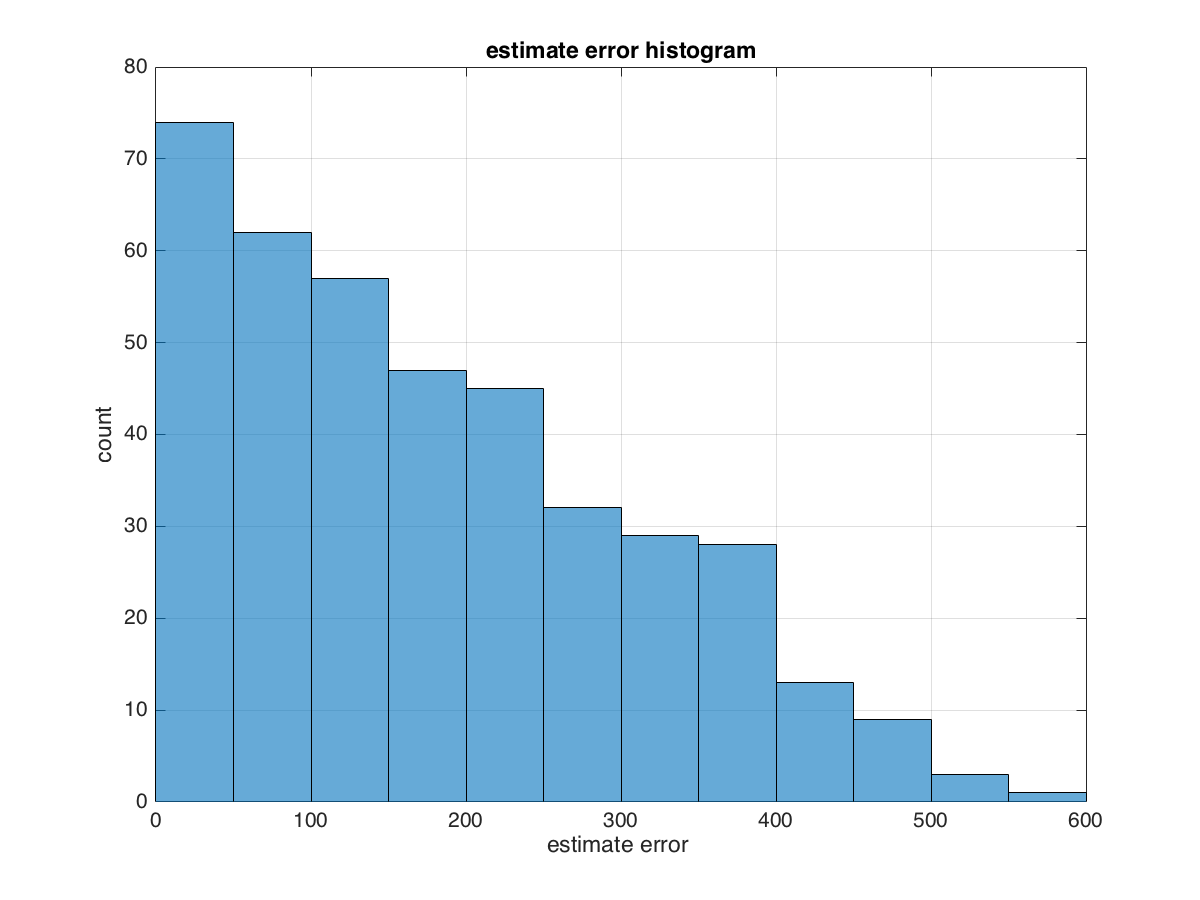
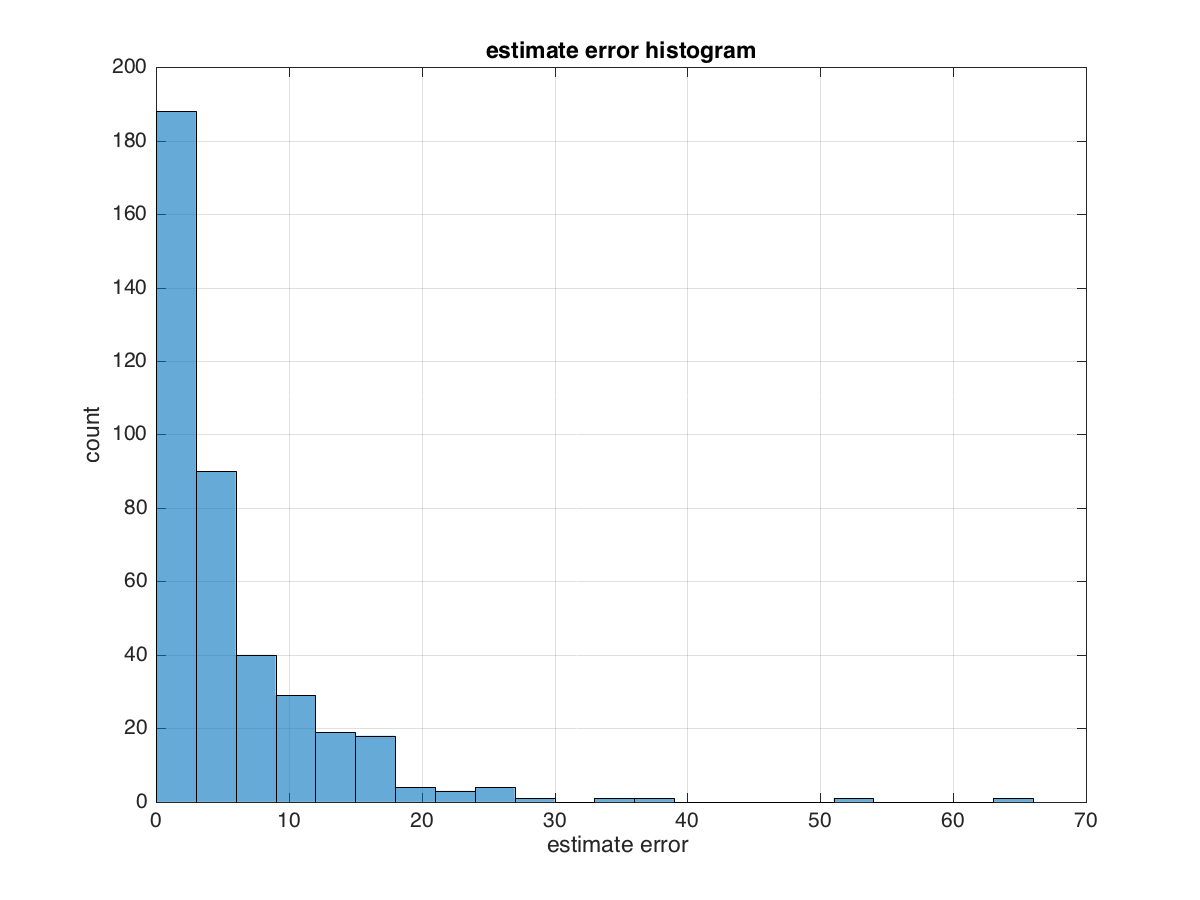
.py show Nan error

diff --git a/main.py b/main.py
@@ -1,7 +1,7 @@
 """
 #!/usr/bin/env python
 # coding: utf-8
-# Angle of Arrival Estimation 
+# BER predict
 # Jianyuan Jet Yu, jianyuan@vt.edu
 
 # flexiable version w/ tensorflow
@@ -32,17 +32,17 @@ import math
 # ======================== global setting ======================== 
 
 dataID = './Data/'    
-note = ' TF digital, spread, 1 sig, SGD '  
+note = ' '  
 Nsig = 1 
 
 
 
 isSend       = 0     # send Email
-epochs     = 4    # number of learning epochs
+epochs     = 200    # number of learning epochs
 batch_size = 512
 os.environ["KMP_DUPLICATE_LIB_OK"] = "1"   # sometime make "1" for Mac 
 
-TEXT    = "low dataset" 
+TEXT    = " " 
 num_bins = 50
 
 tic = time.time()
@@ -107,8 +107,12 @@ def true_dist(y_true, y_pred):
     return np.sqrt(np.square(np.abs(y_pred[:,0]-y_true[:,0]))+ np.square(np.abs(y_pred[:,1]-y_true[:,1])) )
     # to be amend
 
+#def dist(y_true, y_pred):    
+#     return tf.reduce_mean((tf.sqrt(tf.square(tf.abs(y_pred[:,0]-y_true[:,0]))+ tf.square(tf.abs(y_pred[:,1]-y_true[:,1])))))  
+    
+    
 def dist(y_true, y_pred):    
-     return tf.reduce_mean((tf.sqrt(tf.square(tf.abs(y_pred[:,0]-y_true[:,0]))+ tf.square(tf.abs(y_pred[:,1]-y_true[:,1])))))  
+     return tf.reduce_mean(tf.sqrt(tf.square(tf.abs(y_pred-y_true)) ))      
 
 class RBFLayer(Layer):
     def __init__(self, units, gamma, **kwargs):
@@ -139,14 +143,16 @@ class RBFLayer(Layer):
 
   
     
-t = hdf5storage.loadmat(dataID+'Xtrain.mat')
-Xtrain = t['Xtrain'].T  # Nsnr X Ndat X 42
-t = hdf5storage.loadmat(dataID+'Ytrain.mat')
-Ytrain = t['Ytrain'].T  # Nsnr X Ndat X dim X 2
-t = hdf5storage.loadmat(dataID+'Xtest.mat')
-Xtest = t['Xtest'].T 
-t = hdf5storage.loadmat(dataID+'Ytest.mat')
-Ytest = t['Ytest'].T
+t = hdf5storage.loadmat(dataID+'XLong3.mat')
+X = t['X'] 
+Xtrain = X[:1599,:]
+Xtest = X[1600:,:]
+t = hdf5storage.loadmat(dataID+'YLong3.mat')
+Y= t['Y'] 
+Y = - 10*(np.log(Y/1000)/np.log(10));   # log value
+Ytrain = Y[:1599,:]
+Ytest = Y[1600:,:]
+
 
 
 with open("outPut_TF.txt", "a") as text_file:
@@ -154,7 +160,7 @@ with open("outPut_TF.txt", "a") as text_file:
     text_file.write( "=== " + note + " === \n" )
     text_file.write( "--- caseID %s  begin --- \n" %(dataID))
     text_file.write( "--- local time  " + dt_string + " --- \n" )
-    Ytest = Ytest
+#    Ytest = Ytest
 
     Xval = Xtrain[0:20,:];
     Yval = Ytrain[0:20];
@@ -166,7 +172,7 @@ with open("outPut_TF.txt", "a") as text_file:
     Xtest = Xtest[:,:,np.newaxis]
     Xval = Xval[:,:,np.newaxis]
 
-    nn_input  = Input((30,1))
+    nn_input  = Input((9,1))
                 
     nn_output = Flatten()(nn_input)
     # nn_output = LSTM(units=136, dropout_U = 0.2, dropout_W = 0.2)(nn_input)
@@ -183,11 +189,12 @@ with open("outPut_TF.txt", "a") as text_file:
     nn_output = Dense(32,activation='relu')(nn_output)
 #        nn_output = Dropout(0.1)(nn_output)
 #        nn_output = Dropout(0.2)(nn_output)
-    nn_output = Dense(2*Nsig,activation='linear')(nn_output)
+    nn_output = Dense(2,activation='linear')(nn_output)
     #  directly output 3 para, non classify
     nn = Model(inputs=nn_input,outputs=nn_output)
     
     nn.compile(optimizer='adam', loss='mse',metrics=[dist])
+#    nn.compile(optimizer='adam', loss='mse')
     nn.summary()
 
     train_hist = nn.fit(x=Xtrain,y=Ytrain,\
@@ -200,10 +207,10 @@ with open("outPut_TF.txt", "a") as text_file:
     Ypredtrain = nn.predict( Xtrain)
     Ypred = nn.predict( Xtest)
     
-    Ypredtrain = Ypredtrain/math.pi*180
-    Ypred = Ypred/math.pi*180
-    Ytest = Ytest/math.pi*180
-    Ytrain = Ytrain/math.pi*180
+    Ypredtrain = Ypredtrain
+#    Ypred = Ypred
+#    Ytest = Ytest
+#    Ytrain = Ytrain
     
     
     err = np.mean(abs(Ytest-Ypred),axis=0);
